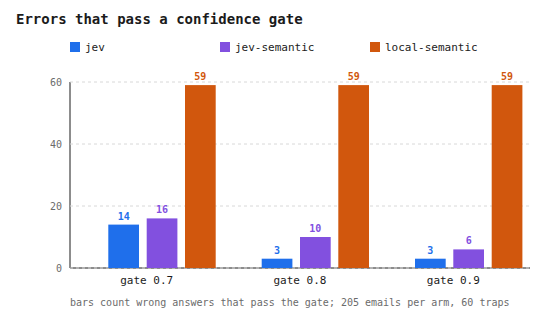
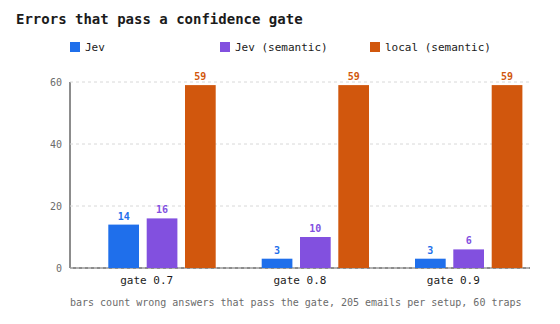
post: drop the word arm from the Jev writeup and the charts

diff --git a/_posts/2026-09-17-can-my-local-8b-do-what-jev-does.md b/_posts/2026-09-17-can-my-local-8b-do-what-jev-does.md
@@ -11,9 +11,9 @@ TypeSafe's Jev kept landing in my feed, twice in one day, and both posts were pu
 
 Both were hosted, so the question was whether my local lane could return that same shape on a task of mine, at an accuracy cost I could live with, and whether anything it returned would be safe to gate. Mail triage is the task, and in a security team it is a compliance question before a cost question. A router that reads mail sends the mail somewhere.
 
-So I ran it with a frozen protocol, not a vibe check: sort synthetic email into queues, one arm on Jev, one on the local arm, and gate every answer on confidence the way an unattended router would have to.
+So I ran it with a frozen protocol, not a vibe check: sort synthetic email into queues, one on Jev, one on the local model, and gate every answer on confidence the way an unattended router would have to.
 
-The short version. The local model is level with the hosted one on three of eight queues and nowhere near it on the rest. What decides whether either can run unattended is not accuracy, it is how many wrong answers walk through the gate, and the local arm cannot be rescued by plumbing because it never reports doubt.
+The short version. The local model is level with the hosted one on three of eight queues and nowhere near it on the rest. What decides whether either can run unattended is not accuracy, it is how many wrong answers walk through the gate, and the local model cannot be rescued by plumbing because it never reports doubt.
 
 ## What Jev is
 
@@ -35,13 +35,13 @@ Three properties follow:
 
 The fourth reason is less rational. When a decision is only a choice among options code has already enumerated, it looks like something an 8B ought to manage. That intuition is what the experiment tests, and the result is that the shape travels and the calibration does not.
 
-## The pattern and the two arms
+## Two setups, one pattern
 
-The hosted arm is Jev. The local arm is LFM2.5-8B-A1B at Q4_K_M under llama-server on the ThinkPad T14 Gen 1 that serves my local lane, CPU only, 8 of its 12 threads and 4 slots given to the server.
+One setup is Jev, hosted. The other is LFM2.5-8B-A1B at Q4_K_M under llama-server on the ThinkPad T14 Gen 1 that serves my local lane, CPU only, 8 of its 12 threads and 4 slots given to the server.
 
-Both arms run the same pattern, which is the part worth copying. Code enumerates the candidate queues, the model picks inside that set, code validates the pick against what it offered, and it gates on confidence before anything routes. Neither arm is asked to write a label in prose and then trusted to have done it.
+Both setups run the same pattern, which is the part worth copying. Code enumerates the candidate queues, the model picks inside that set, code validates the pick against what it offered, and it gates on confidence before anything routes. Neither side is asked to write a label in prose and then trusted to have done it.
 
-Two labs, each with the corpus frozen alongside the run. Lab 1 used a queue-level prompt over 94 sampled emails per arm, lab 2 a semantic option space over 205 items, and lab 2 is the one worth quoting.
+Two labs, each with the corpus frozen alongside the run. Lab 1 used a queue-level prompt over 94 sampled emails each, lab 2 a semantic option space over 205 items, and lab 2 is the one worth quoting.
 
 ## Making the local model answer like Jev
 
@@ -75,7 +75,7 @@ LFM2.5-8B-A1B is sparse, 8B total with about 1B active per token, quantised to Q
 }
 ```
 
-The assistant turn is pre-filled with `{"label": "`, so the model continues a structure instead of inventing one, and `continue_final_message` keeps that prefill a partial turn. The grammar comes from the taxonomy, so an answer outside the set is not discouraged, it is unreachable. 8 tokens at temperature 0 leaves no room to think or argue, which is why the arm that needs 454 output tokens unconstrained needs 4 here.
+The assistant turn is pre-filled with `{"label": "`, so the model continues a structure instead of inventing one, and `continue_final_message` keeps that prefill a partial turn. The grammar comes from the taxonomy, so an answer outside the set is not discouraged, it is unreachable. 8 tokens at temperature 0 leaves no room to think or argue, which is why the model that needs 454 output tokens unconstrained needs 4 here.
 
 Lab 2 moves the trick one level up: the model chooses among 25 natural descriptions and code maps the winner onto one of the 8 queues, so it reasons in words it already uses while the deployer's queue names stay a code concern. The grammar enumerates the descriptions, a dictionary lookup does the mapping.
 
@@ -85,27 +85,27 @@ Renormalising is not optional. The probabilities the server reports are raw, com
 
 **The confidence.** Jev's confidence is separate from the top probability, so you can gate on one number and inspect the other. Locally there is nothing to return but the renormalised probability of the chosen option, so the two fields collapse into one.
 
-The unconstrained control arm drops the grammar and the prefix: same weights, same system prompt, `max_tokens` 512, and the label read back with a whole-word match where the last mention wins. That rule exists because the model writes sentences like "the subject does not say newsletter", and a naive match scores that as an answer.
+The unconstrained control run drops the grammar and the prefix: same weights, same system prompt, `max_tokens` 512, and the label read back with a whole-word match where the last mention wins. That rule exists because the model writes sentences like "the subject does not say newsletter", and a naive match scores that as an answer.
 
 So the configuration buys the shape and not the property. The pick is always legal and the gate always has a number to threshold. Whether that number is worth thresholding is the rest of this post.
 
 ## Lab 1: the grammar buys less than it looks like it does
 
-Three arms over the same 94 item ids:
+Three setups over the same 94 item ids:
 
-| arm | accuracy | ECE | latency p50 |
+| setup | accuracy | ECE | latency p50 |
 |---|---|---|---|
 | Jev, bounded choice | 81.9% (77/94) | 0.091 | 739 ms |
 | local 8B, grammar constrained | 63.8% (60/94) | 0.269 | 3,948 ms |
 | local 8B, unconstrained | 52.1% (49/94) | n/a | 21,850 ms |
 
-Constrained decoding beat the unconstrained arm by 11.7 points, which was my first version of the finding. Then the correction: nine of the unconstrained arm's answers contained no label at all, and those nine account for 9.6 of the 11.7 points. On the answers it actually produced it scored 57.6% against 63.8%, six items in 94, which is noise. The grammar bought machine-readable output and speed, 454 output tokens per decision down to 4 and 21.8 seconds down to 3.9. Not comprehension.
+Constrained decoding beat the unconstrained run by 11.7 points, which was my first version of the finding. Then the correction: nine of the unconstrained run's answers contained no label at all, and those nine account for 9.6 of the 11.7 points. On the answers it actually produced it scored 57.6% against 63.8%, six items in 94, which is noise. The grammar bought machine-readable output and speed, 454 output tokens per decision down to 4 and 21.8 seconds down to 3.9. Not comprehension.
 
 ## The gate is the real result
 
 Accuracy cannot automate anything on its own. Automation is a threshold on confidence, and what matters is how many wrong answers get past it.
 
-Jev, the hosted arm, over 94 items:
+Jev, the hosted model, over 94 items:
 
 | confidence gate | mailbox covered | accuracy inside | wrong answers passed |
 |---|---|---|---|
@@ -114,7 +114,7 @@ Jev, the hosted arm, over 94 items:
 | 0.8 | 79.8% | 96.0% | 3 |
 | 0.9 | 62.8% | 100% | 0 |
 
-The local arm over the same 94 items:
+The local model over the same 94 items:
 
 | confidence gate | mailbox covered | accuracy inside | wrong answers passed |
 |---|---|---|---|
@@ -123,32 +123,32 @@ The local arm over the same 94 items:
 | 0.8 | 80.9% | 73.7% | 20 |
 | 0.9 | 71.3% | 77.6% | 15 |
 
-At a 0.8 gate the hosted model runs four fifths of the mailbox with three wrong routings out of 94. The local arm does the same volume with twenty. That ratio, wrong answers passed per unit of automation, is the property worth paying for.
+At a 0.8 gate the hosted model runs four fifths of the mailbox with three wrong routings out of 94. The local model does the same volume with twenty. That ratio, wrong answers passed per unit of automation, is the property worth paying for.
 
-ECE says the same thing from another angle, 0.091 against 0.269, and the local arm is more confident when it is right, 0.964 against 0.941. Confident when right and equally confident when wrong is what makes a gate dangerous, not useless.
+ECE says the same thing from another angle, 0.091 against 0.269, and the local model is more confident when it is right, 0.964 against 0.941. Confident when right and equally confident when wrong is what makes a gate dangerous, not useless.
 
 ![Errors that pass a confidence gate](/assets/img/gate-errors-escaped.png)
 
-*Wrong answers that clear the gate, lab 2. The local arm covers the same volume at every threshold because it has nothing below 90% confidence.*
+*Wrong answers that clear the gate, lab 2. The local model covers the same volume at every threshold because it has nothing below 90% confidence.*
 
 ## Lab 2: three changes, two of them worse
 
 Lab 2 changed three things, each aimed at a failure I had already measured: queue definitions written as actions, not subject matter, a space of 25 natural descriptions mapped onto the 8 queues in code, and a full expansion over the raw token distribution, not just the greedy path. 205 items, 60 traps.
 
 - Jev on the queue-level prompt: 84.4%. Jev on the semantic space: 85.9%. Local on the semantic space: 65.4%.
-- The local arm went from 63.8% to 65.4% across a corpus that got harder, so flat in practice, and 71% slower per decision, 3.9 seconds to 6.7, because the prompt grew.
-- The semantic space made the hosted arm's traps worse, 43 of 60 against 48 of 60, and cost it 65,810 output tokens against 15,590.
-- Calibration got worse rather than better, ECE 0.339 for the local arm.
+- The local model went from 63.8% to 65.4% across a corpus that got harder, so flat in practice, and 71% slower per decision, 3.9 seconds to 6.7, because the prompt grew.
+- The semantic space made Jev's traps worse, 43 of 60 against 48 of 60, and cost it 65,810 output tokens against 15,590.
+- Calibration got worse rather than better, ECE 0.339 for the local model.
 
-Two negative results, kept rather than buried. Vocabulary the model actually uses did not buy accuracy, and it more than quadrupled the hosted arm's output tokens for a point and a half on 205 items.
+Two negative results, kept rather than buried. Vocabulary the model actually uses did not buy accuracy, and it more than quadrupled Jev's output tokens for a point and a half on 205 items.
 
-## The local arm cannot be recalibrated
+## The local model cannot be recalibrated
 
-ECE 0.339 raw, and fitting a temperature on held-out data left it in the 0.32 to 0.36 band, which is to say it did nothing. The reason is in the coverage: gate coverage is identical at 0.7, 0.8 and 0.9, 84.9% at every threshold. Every answer the arm is willing to gate arrives at high confidence, so nothing ever occupies the uncertain band for a temperature to rescale. 31 of its 205 answers produced no usable distribution either, and those rows cannot be presented to a gate at all.
+ECE 0.339 raw, and fitting a temperature on held-out data left it in the 0.32 to 0.36 band, which is to say it did nothing. The reason is in the coverage: gate coverage is identical at 0.7, 0.8 and 0.9, 84.9% at every threshold. Every answer the model is willing to gate arrives at high confidence, so nothing ever occupies the uncertain band for a temperature to rescale. 31 of its 205 answers produced no usable distribution either, and those rows cannot be presented to a gate at all.
 
 ![Stated confidence against observed accuracy](/assets/img/reliability.png)
 
-*Confidence bins against accuracy, lab 2. The local arm has no answers below 90% confidence, and none of the low bins have a local bar.*
+*Confidence bins against accuracy, lab 2. The local model has no answers below 90% confidence, and none of the low bins have a local bar.*
 
 That is the finding I would hand to anyone planning a local seat. A model that never reports doubt cannot be repaired by prompting, by a grammar, or by rescaling its outputs. Calibration is a property of training.
 
@@ -167,7 +167,7 @@ That is the finding I would hand to anyone planning a local seat. A model that n
 | personal | 56% | 44% |
 | complaint | 100% | 4% |
 
-The local model is level on newsletter, security and meeting, loses everywhere else, and one collapse does most of the damage. `complaint` is 24 of the 205 items and the local arm gets 1 of them, so that queue alone accounts for most of the 19 point aggregate gap.
+The local model is level on newsletter, security and meeting, loses everywhere else, and one collapse does most of the damage. `complaint` is 24 of the 205 items and the local model gets 1 of them, so that queue alone accounts for most of the 19 point aggregate gap.
 
 The defensible statement is not that a small model cannot do this. It is that this small model can do three of eight queues, and one aggregate number hid it. A two-tier design falls out of the table: let the local lane take the queues where it is level, escalate the rest, and report the removed volume against the accuracy cost.
 
@@ -175,11 +175,11 @@ The defensible statement is not that a small model cannot do this. It is that th
 
 Ten defects were found and fixed before or during measurement, three of which would have produced confident wrong conclusions:
 
-- Three trap items had their gold label pointing at the decoy queue, so a phishing email was filed under `billing` in the ground truth and every arm would have been scored wrong against it.
+- Three trap items had their gold label pointing at the decoy queue, so a phishing email was filed under `billing` in the ground truth and every run would have been scored wrong against it.
 - The grammar's closing brace rides on the final token, so a completed option never equalled an option name and a correct answer was scored as no answer.
 - The gate coverage metric dropped rows with no distribution, turning 84.9% coverage into 100% in one file while the report's own table said 84.9%.
 
-The rest are ordinary. A malformed grammar literal made the constrained arm return HTTP 400 on every item. A scorer read the token after the label instead of the label's own tokens. A 64 token cap returned empty answers because the model was still thinking. An answer parser matched labels inside negations, so "the subject does not say newsletter" scored as a newsletter answer.
+The rest are ordinary. A malformed grammar literal made the constrained run return HTTP 400 on every item. A scorer read the token after the label instead of the label's own tokens. A 64 token cap returned empty answers because the model was still thinking. An answer parser matched labels inside negations, so "the subject does not say newsletter" scored as a newsletter answer.
 
 Two corrections were to my own claims, in the open: the size of the constraint's benefit and the coverage denominator.
 
@@ -190,7 +190,7 @@ One measurement was abandoned rather than patched, exact per-option scoring, whi
 - The corpus is template generated and the bodies run 77 to 208 characters, so real mail will score lower and every accuracy here is an upper bound.
 - One model, one quantisation, one CPU lane, one corpus. Nothing here generalises to small models as a class.
 - `jev-latest` floats, so the hosted numbers cannot be reproduced against a pinned version.
-- Lab 1's trap sample was 14 items, and its "local beats hosted on traps" reading did not survive lab 2, where the hosted arm won 48 of 60 against 31.
+- Lab 1's trap sample was 14 items, and its "local beats hosted on traps" reading did not survive lab 2, where Jev won 48 of 60 against 31.
 - The description of Jev is TypeSafe's own documentation rather than an inspection of the model. Everything measured here is the behaviour of the API they serve.
 - The two posts in the opening are demos, not evaluations, and both are self-reported by people adjacent to the vendors.
 - The $0.0786 per 1,000 emails figure is the paper classifier's number applied to my token counts. It is not a rate card for this task, and TypeSafe's pricing page returns 404.
